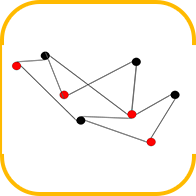
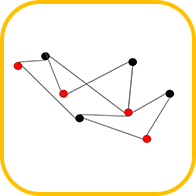
Fixed Gallery Rotation controls

diff --git a/src/models/Gallery.jsx b/src/models/Gallery.jsx
@@ -37,76 +37,85 @@ export function Gallery({
   // PROJECT CONFIG
   // ---------------------------------------------------
 
+  const radius = 5;
+
   const PROJECTS = [
     {
       id: 1,
       name: "P2P File Sharing",
       angle: STEP * 1,
-      position: [0, 0.5, -3],
       image: p2pIcon,
     },
     {
       id: 2,
       name: "Vertex Cover (NP-Complete)",
       angle: STEP * 2,
-      position: [-3, 0.5, -1],
       image: vcIcon,
     },
     {
       id: 3,
       name: "Sideline",
       angle: STEP * 3,
-      position: [-3, 0.5, 2],
       image: sidelineIcon,
     },
     {
       id: 4,
       name: "VocalSphere",
       angle: STEP * 4,
-      position: [0, 0.5, 3],
       image: vocalsphereIcon,
     },
     {
       id: 5,
       name: "DayBeats",
       angle: STEP * 5,
-      position: [3, 0.5, 2],
       image: daybeatsIcon,
     },
     {
       id: 6,
       name: "PokeTeamer (AI)",
       angle: STEP * 6,
-      position: [3, 0.5, -1],
       image: pokeIcon,
     },
     {
       id: 7,
       name: "Minesweeper (C++)",
       angle: STEP * 7,
-      position: [0, 0.5, -3],
       image: minesweeperIcon,
     },
-  ];
+  ].map((project) => ({
+    ...project,
+
+    position: [
+      Math.cos(project.angle) * radius,
+      1.5,
+      Math.sin(project.angle) * radius,
+    ],
+  }));
 
   // ---------------------------------------------------
   // FIND CLOSEST PROJECT
   // ---------------------------------------------------
 
   const findClosestProject = (rotation) => {
-    const normalized =
-      ((rotation % (Math.PI * 2)) + Math.PI * 2) %
-      (Math.PI * 2);
+    const TWO_PI = Math.PI * 2;
+
+    const normalizedRotation =
+      ((rotation % TWO_PI) + TWO_PI) % TWO_PI;
 
     let closest = PROJECTS[0];
     let smallestDistance = Infinity;
 
     PROJECTS.forEach((project) => {
-      let distance = Math.abs(normalized - project.angle);
+      const normalizedAngle =
+        ((project.angle % TWO_PI) + TWO_PI) % TWO_PI;
+
+      let distance = Math.abs(
+        normalizedRotation - normalizedAngle
+      );
 
       distance = Math.min(
         distance,
-        Math.PI * 2 - distance
+        TWO_PI - distance
       );
 
       if (distance < smallestDistance) {
@@ -133,7 +142,9 @@ export function Gallery({
       targetRotation - currentRotation.current;
 
     difference =
-      ((difference + Math.PI) % TWO_PI) - Math.PI;
+      difference =
+        ((difference + Math.PI + TWO_PI) % TWO_PI) -
+        Math.PI;
 
     if (!dragging.current) {
       currentRotation.current += difference * 0.08;
@@ -143,17 +154,22 @@ export function Gallery({
     // CAMERA ORBIT
     // -----------------------------------------
 
-    const radius = 2;
 
-    camera.position.x =
-      Math.sin(currentRotation.current) * radius;
+  camera.position.x =
+    Math.cos(currentRotation.current) * 2;
 
-    camera.position.z =
-      Math.cos(currentRotation.current) * radius;
+  camera.position.z =
+    Math.sin(currentRotation.current) * 2;
 
     camera.position.y = 1.8;
 
-    camera.lookAt(0, 1.5, 0);
+  const lookDistance = 4;
+
+  camera.lookAt(
+    Math.cos(currentRotation.current) * lookDistance,
+    1.5,
+    Math.sin(currentRotation.current) * lookDistance
+  );
 
     // -----------------------------------------
     // ACTIVE PROJECT
@@ -175,8 +191,13 @@ export function Gallery({
   // ---------------------------------------------------
 
   const handlePointerDown = (e) => {
+    e.stopPropagation();
+
     dragging.current = true;
+
     previousX.current = e.clientX;
+
+    e.target.setPointerCapture(e.pointerId);
   };
 
   const handlePointerMove = (e) => {
@@ -184,15 +205,17 @@ export function Gallery({
 
     const delta = e.clientX - previousX.current;
 
-    currentRotation.current += delta * 0.005;
+    currentRotation.current -= delta * 0.005;
 
     setTargetRotation(currentRotation.current);
 
     previousX.current = e.clientX;
   };
 
-  const handlePointerUp = () => {
+  const handlePointerUp = (e) => {
     dragging.current = false;
+
+    e.target.releasePointerCapture(e.pointerId);
 
     const closestProject = findClosestProject(
       currentRotation.current

diff --git a/src/pages/Home.jsx b/src/pages/Home.jsx
@@ -201,7 +201,7 @@ const Home = () => {
         {/* LEFT PANEL */}
 
         <div className="absolute left-6 top-1/2 -translate-y-1/2 z-20 hidden lg:block">
-          <div className="w-80 bg-white/5 backdrop-blur-md border border-white/10 rounded-3xl p-6 text-white shadow-2xl">
+          <div className="w-80 bg-white/10 backdrop-blur-lg border border-white/20 rounded-3xl p-6 text-white shadow-2xl">
             <p className="text-sm uppercase tracking-widest text-gray-400 mb-2">
               Selected Project
             </p>
@@ -284,7 +284,7 @@ const Home = () => {
           camera={{
             near: 0.1,
             far: 1000,
-            position: [0, 1.6, 7],
+            position: [0, 1.6, 0],
             fov: 50,
           }}
         >
